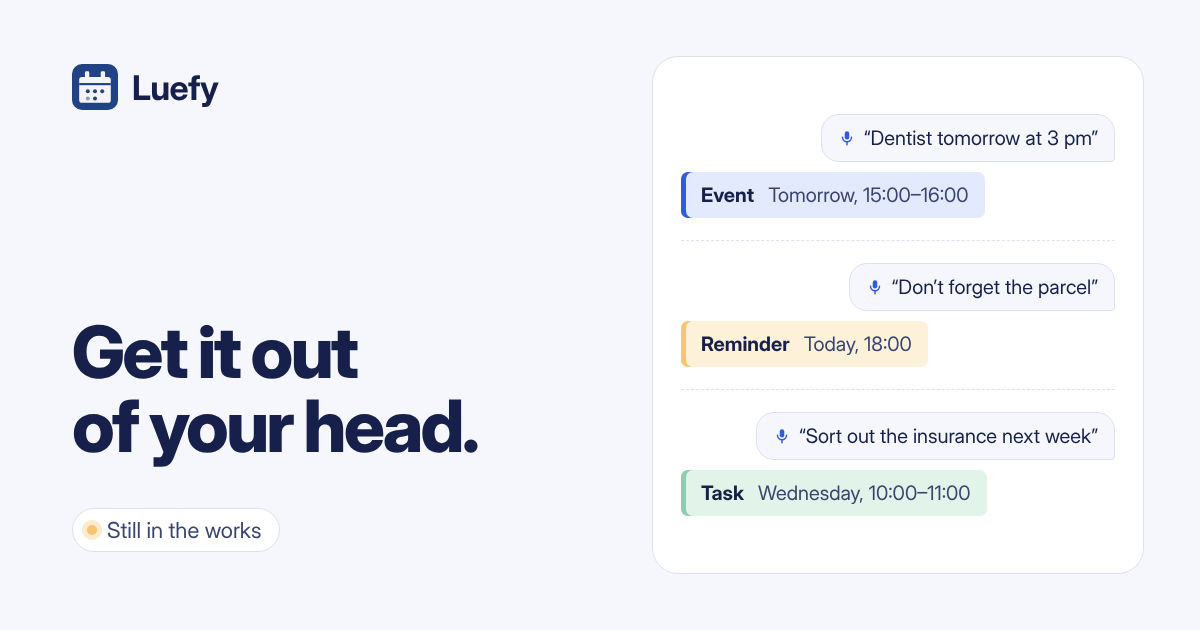
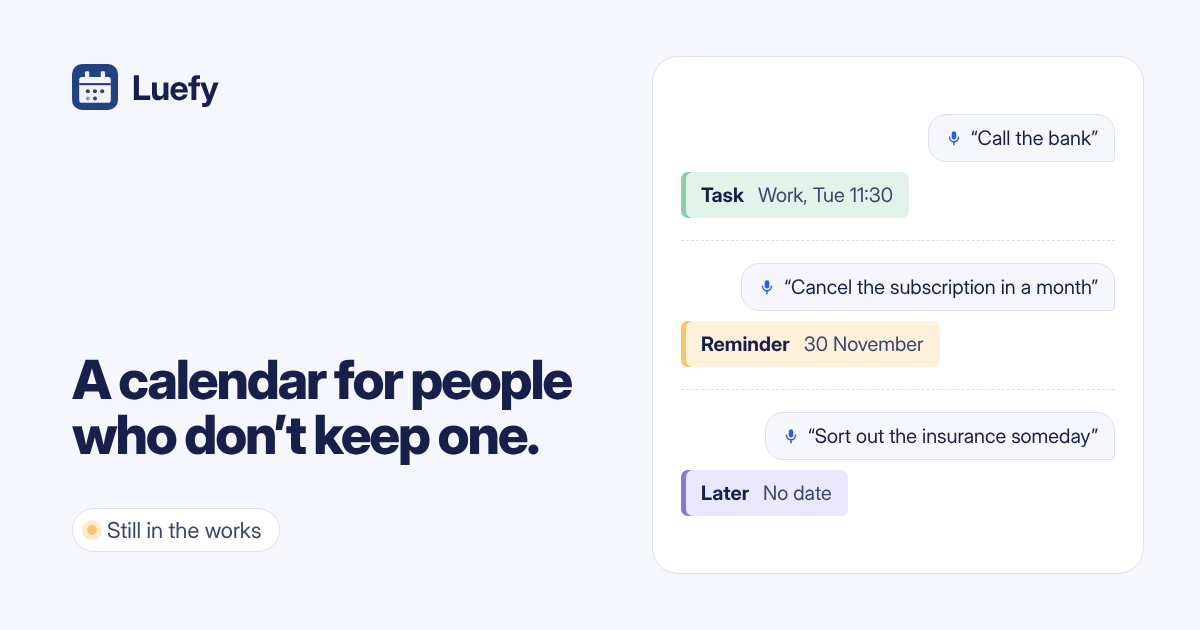
Landing: 'a calendar for people who don't keep one'
Describe your week once (phases), throw tasks in by voice or text, Luefy fits
the ones without a time into free spots; reminders and a 'for later' list for
the rest; Google, Outlook and iCloud in one calendar.

Claude-Session: https://claude.ai/code/session_012HKnaT5WbtcNsTzSLw7yCP

diff --git a/landing/src/lib/content.ts b/landing/src/lib/content.ts
@@ -40,7 +40,7 @@ export interface Dictionary {
     };
     waitlist: WaitlistLabels;
     steps: { title: string; items: { title: string; body: string }[] };
-    why: string;
+    calendarsLine: string;
     final: { title: string; body: string };
     signIn: {
         title: string;
@@ -66,9 +66,9 @@ const uk: Dictionary = {
     htmlLang: 'uk',
     ogLocale: 'uk_UA',
     meta: {
-        title: 'Luefy — викинь це з голови',
+        title: 'Luefy — календар для тих, хто не веде календар',
         description:
-            'Скажи Luefy, що треба зробити. Він сам розбере, що це, і знайде для цього час у календарі. Ранній доступ.',
+            'Опиши свій тиждень один раз і кидай справи голосом чи текстом: Luefy розкладе їх у вільні місця. Google, Outlook та iCloud в одному календарі. Ранній доступ.',
         keywords: [
             'AI планувальник',
             'задачі голосом',
@@ -82,16 +82,17 @@ const uk: Dictionary = {
     nav: { signIn: 'Увійти', langLabel: 'Мова', otherLangName: 'English', skip: 'Перейти до змісту' },
     hero: {
         badge: 'Ще в розробці',
-        title: 'Викинь це з голови.',
-        lead: 'Скажи Luefy, що треба зробити. Він сам розбере, що це, і знайде для цього час у календарі. А ти більше про це не думаєш.',
+        title: 'Календар для тих, хто не веде календар.',
+        lead: 'Не треба розписувати кожну годину. Один раз опиши свій звичайний тиждень: коли робота, коли вільний час. Далі просто кидай справи, голосом чи текстом, і Luefy розкладе їх у вільні місця.',
     },
     demo: {
         label: 'Як Luefy розбирає сказане',
-        kinds: { event: 'Подія', reminder: 'Нагадування', task: 'Задача', later: 'Колись потім' },
+        kinds: { event: 'Подія', reminder: 'Нагадування', task: 'Задача', later: 'На потім' },
         items: [
+            { said: 'Подзвонити в банк', kind: 'task', result: 'Робота, вт 11:30' },
+            { said: 'Нагадай скасувати підписку через місяць', kind: 'reminder', result: '30 листопада' },
+            { said: 'Колись розібратися зі страховкою', kind: 'later', result: 'Без дати' },
             { said: 'Завтра о 15:00 стоматолог', kind: 'event', result: 'Завтра, 15:00–16:00' },
-            { said: 'Не забути забрати посилку', kind: 'reminder', result: 'Сьогодні, 18:00' },
-            { said: 'Розібратися зі страховкою на тому тижні', kind: 'task', result: 'Середа, 10:00–11:00' },
         ],
     },
     waitlist: {
@@ -123,14 +124,17 @@ const uk: Dictionary = {
     steps: {
         title: 'Як це працює',
         items: [
-            { title: 'Кажеш як є', body: 'Голосом або текстом. Без дат, форм і списків.' },
-            { title: 'Luefy розбирається', body: 'Подія, нагадування, задача чи «колись потім».' },
-            { title: 'І знаходить час', body: 'Між твоїми справами. Не о 23:00.' },
+            { title: 'Опиши свій тиждень', body: 'Коли робота, коли вдома, коли вільно. Один раз.' },
+            { title: 'Кидай справи', body: 'Голосом або текстом, як думаєш.' },
+            {
+                title: 'Luefy розкладе',
+                body: 'Справи без часу — у вільні місця твого тижня. Решту — в нагадування або на потім.',
+            },
         ],
     },
-    why: 'Поки в справи немає часу, голова про неї нагадує. Дав їй час — відпустило.',
+    calendarsLine: 'Google, Outlook та iCloud — в одному календарі.',
     final: {
-        title: 'Хочеш спробувати першим?',
+        title: 'Хочеш спробувати?',
         body: 'Залиш емейл — напишемо, коли відкриємо доступ.',
     },
     signIn: {
@@ -142,7 +146,7 @@ const uk: Dictionary = {
         unavailable: 'Вхід через {provider} зараз не працює. Спробуй інший.',
         failedRedirect: 'Вхід не завершився. Спробуй ще раз.',
     },
-    footer: { tagline: 'Викинь це з голови.', privacy: 'Конфіденційність' },
+    footer: { tagline: 'Календар для тих, хто не веде календар.', privacy: 'Конфіденційність' },
     privacy: {
         title: 'Про твої дані',
         description: 'Які дані збирає Luefy, навіщо, де вони зберігаються і як їх видалити.',
@@ -173,25 +177,26 @@ const en: Dictionary = {
     htmlLang: 'en',
     ogLocale: 'en_US',
     meta: {
-        title: 'Luefy — get it out of your head',
+        title: 'Luefy — a calendar for people who don’t keep one',
         description:
-            'Tell Luefy what needs doing. It works out what it is and finds time for it in your calendar. Early access.',
+            'Describe your week once and throw tasks at it by voice or text: Luefy fits them into the gaps. Google, Outlook and iCloud in one calendar. Early access.',
         keywords: ['AI planner', 'voice to task', 'reminders', 'AI calendar', 'day planner', 'Google Calendar'],
         ogAlt: 'Luefy turns what you say into events, reminders and tasks in your calendar',
     },
     nav: { signIn: 'Sign in', langLabel: 'Language', otherLangName: 'Українська', skip: 'Skip to content' },
     hero: {
         badge: 'Still in the works',
-        title: 'Get it out of your head.',
-        lead: 'Tell Luefy what needs doing. It works out what it is and finds time for it in your calendar. You stop thinking about it.',
+        title: 'A calendar for people who don’t keep one.',
+        lead: 'No need to plan every hour. Describe your usual week once: when you work, when you’re free. Then just throw tasks at it, by voice or text, and Luefy fits them into the gaps.',
     },
     demo: {
         label: 'How Luefy sorts what you say',
-        kinds: { event: 'Event', reminder: 'Reminder', task: 'Task', later: 'Someday' },
+        kinds: { event: 'Event', reminder: 'Reminder', task: 'Task', later: 'Later' },
         items: [
+            { said: 'Call the bank', kind: 'task', result: 'Work, Tue 11:30' },
+            { said: 'Remind me to cancel the subscription in a month', kind: 'reminder', result: '30 November' },
+            { said: 'Sort out the insurance someday', kind: 'later', result: 'No date' },
             { said: 'Dentist tomorrow at 3 pm', kind: 'event', result: 'Tomorrow, 15:00–16:00' },
-            { said: 'Don’t forget the parcel', kind: 'reminder', result: 'Today, 18:00' },
-            { said: 'Sort out the insurance next week', kind: 'task', result: 'Wednesday, 10:00–11:00' },
         ],
     },
     waitlist: {
@@ -223,14 +228,17 @@ const en: Dictionary = {
     steps: {
         title: 'How it works',
         items: [
-            { title: 'Say it as it is', body: 'Voice or text. No dates, forms or lists.' },
-            { title: 'Luefy sorts it out', body: 'An event, a reminder, a task or “someday”.' },
-            { title: 'And finds the time', body: 'Between your other plans. Not at 11 pm.' },
+            { title: 'Describe your week', body: 'When you work, when you’re home, when you’re free. Once.' },
+            { title: 'Throw tasks in', body: 'By voice or text, the way you think.' },
+            {
+                title: 'Luefy sorts them',
+                body: 'Tasks without a time go into free spots in your week. The rest become reminders or wait for later.',
+            },
         ],
     },
-    why: 'Until a task has a time, your head keeps reminding you. Give it a time and it lets go.',
+    calendarsLine: 'Google, Outlook and iCloud in one calendar.',
     final: {
-        title: 'Want to try it first?',
+        title: 'Want to try it?',
         body: 'Leave your email and we’ll write when access opens.',
     },
     signIn: {
@@ -242,7 +250,7 @@ const en: Dictionary = {
         unavailable: 'Sign-in with {provider} isn’t working right now. Try another.',
         failedRedirect: 'Sign-in didn’t finish. Try again.',
     },
-    footer: { tagline: 'Get it out of your head.', privacy: 'Privacy' },
+    footer: { tagline: 'A calendar for people who don’t keep one.', privacy: 'Privacy' },
     privacy: {
         title: 'About your data',
         description: 'What data Luefy collects, why, where it is stored and how to delete it.',

diff --git a/landing/src/components/LandingPage.tsx b/landing/src/components/LandingPage.tsx
@@ -54,7 +54,7 @@ export default function LandingPage({ locale }: { locale: Locale }) {
                                 </li>
                             ))}
                         </ol>
-                        <p className="why">{t.why}</p>
+                        <p className="why">{t.calendarsLine}</p>
                     </div>
                 </section>
 

diff --git a/landing/src/app/globals.css b/landing/src/app/globals.css
@@ -352,8 +352,8 @@ h2 {
     box-shadow: 0 0 0 4px color-mix(in srgb, var(--dawn) 30%, transparent);
 }
 .hero h1 {
-    font-size: clamp(2.4rem, 1.4rem + 4vw, 4.5rem);
-    line-height: 1.02;
+    font-size: clamp(2.2rem, 1.3rem + 3.2vw, 3.75rem);
+    line-height: 1.04;
     letter-spacing: -0.04em;
     font-weight: 760;
 }
